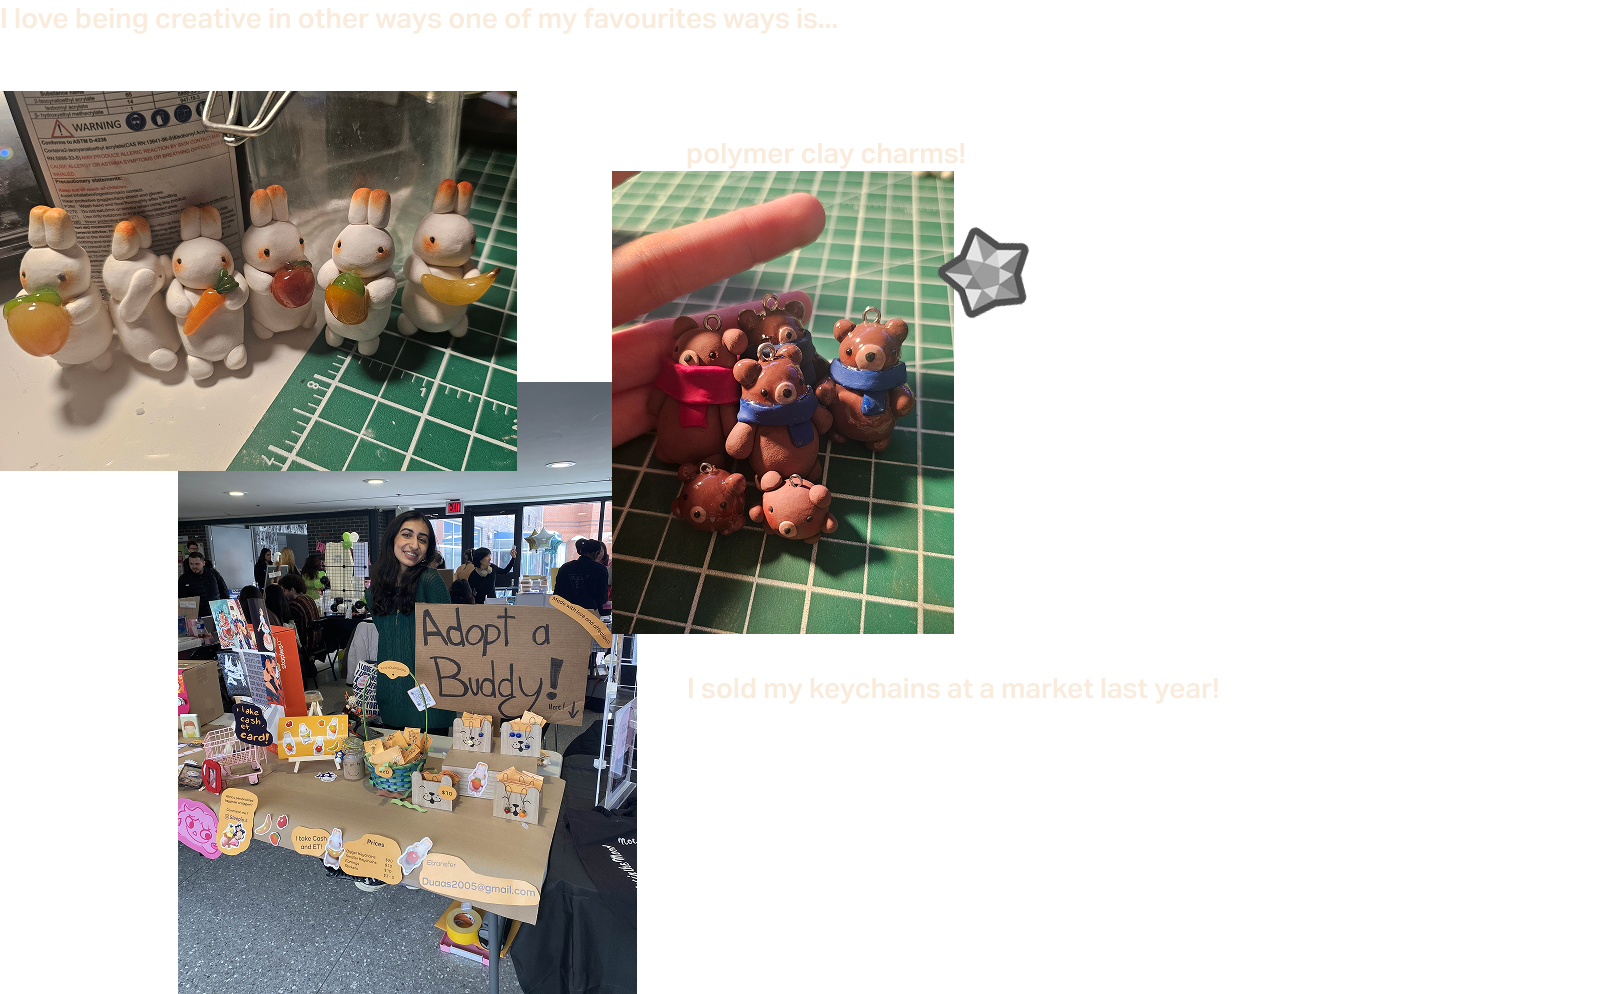
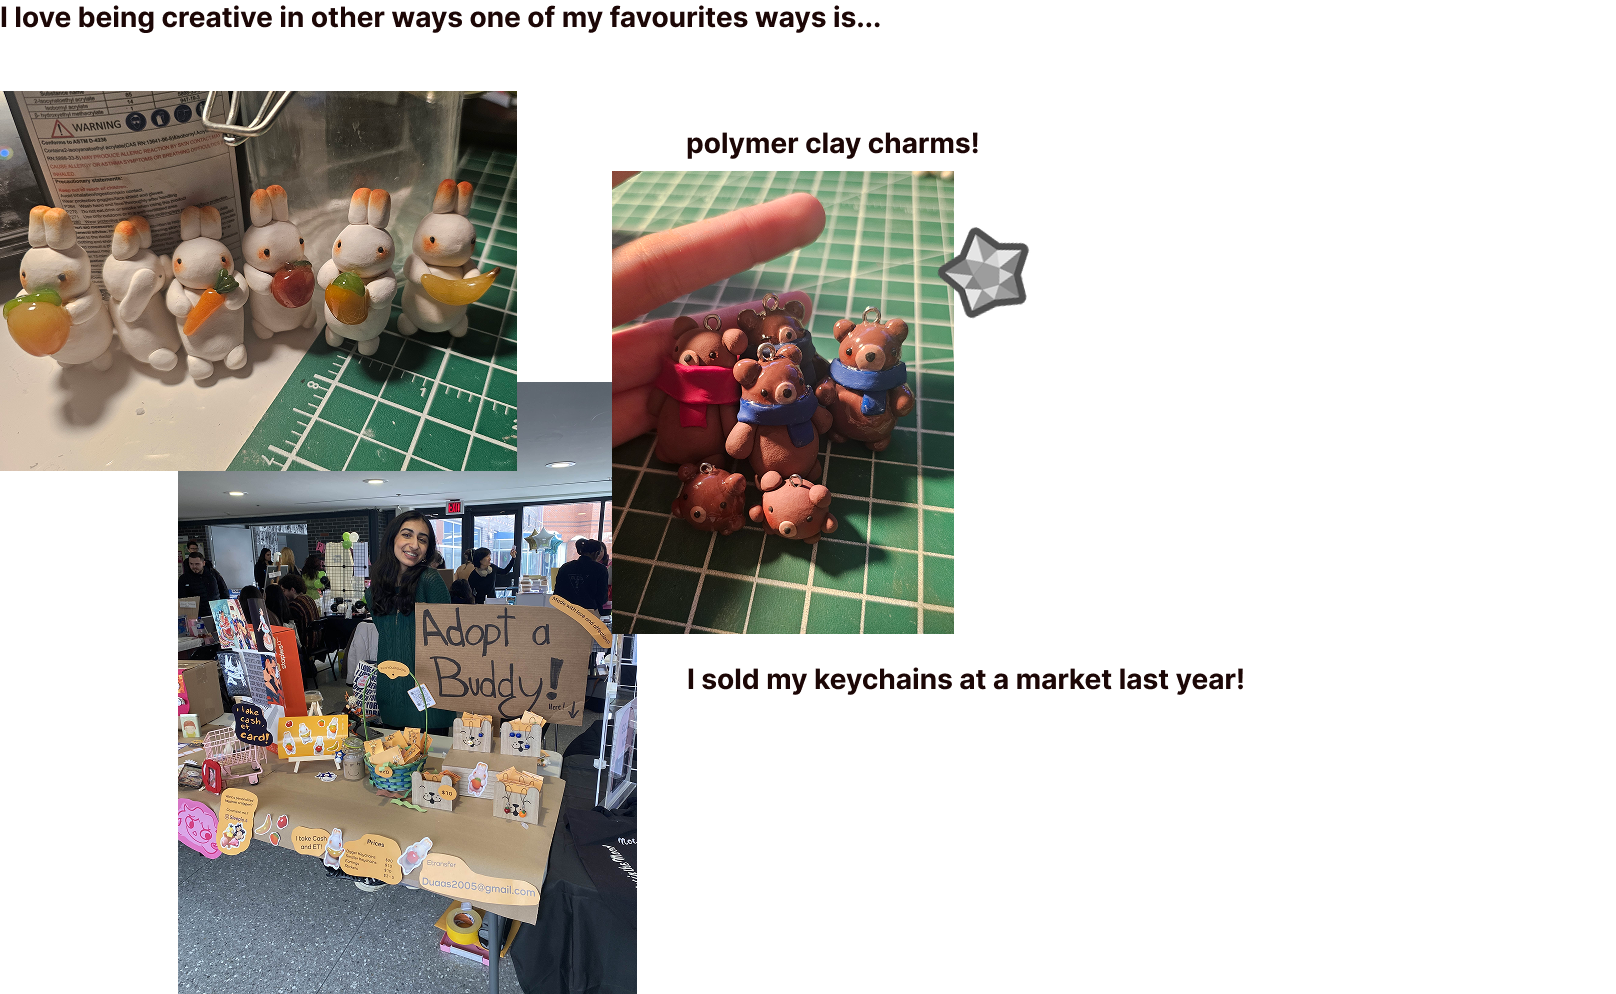
updates to the about

Changed region(s): [[0.4332, 0.6549, 0.7735, 0.7173], [0.0, 0.0, 0.526, 0.0312], [0.4022, 0.1247, 0.6188, 0.1871]]

diff --git a/about.html b/about.html
@@ -29,12 +29,6 @@
 
 <!-- Main Content -->
 <main class="about-wrapper" >
-  <header class="h1-hook">
-    <h1 class="big">  I use design, empathy, and community-powered thinking to craft products that actually make sense (and spark joy). Years of gaming taught me that every problem has a clever solution you just need the right strategy. Learning and growing, learning code,and learning new skills.</h1>
-  </header>
-  <figure class="arrow">
-    <img src="Images-About/arrow.svg" alt="arrow" >
-  </figure>
   <section class="two-col-grid" >
     <article>
       <header class="text-wrapper" >
@@ -42,23 +36,33 @@
         <p>I’m a third-year student at York University’s Design program. Growing up I have always been a creative I’ve been illustrating and drawing for over two decades. With a passion for problem solving I realized product design was for me very quickly with a side of coding  of course ;).<br><br> <b>My goal? </b>Communicate effectively and solve problems through creativity, innovation, and continuous learning especially in design and coding.</p>
       </header>
       <br><br>
-      <header class="text-wrapper">
-        <h2> Design Values </h2>
-        <h3><b> Learning is growing.</b></h3>
-        <p>As a young designer I embrace the mistakes I make as apart of my process. Each slipup is an opportunity to reflect adapt and move closer to my goals.  </p>
-      </header>
-      <header class="text-wrapper">
-        <h3><b>Efficiency is key.</b></h3>
-        <p>While working through different design projects, I’ve learned how important it is to streamline and simplify the process. How it not only creates clarity for the designer but also the user.</p>
-      </header>
-      <header class="text-wrapper">
-        <h3><b>Community is the foundation of everything. </b></h3>
-        <p>Not only is collaboration and feedback something I treasure. They’re practices I push for in design, sharing ideas helps designers grow. As the saying goes it takes a village!</p>
-      </header>
+
     </article>
       <figure>
         <img src="Images-About/HEADSHOT.png" alt="headshot" class="responsive" style="text-align: center; display: flex; align-items: center; justify-items: center; margin: 0 auto;margin-bottom:40px;">
       </figure>
+  </section>
+  <section>
+    <header class="text-wrapper">
+      <h2>Design Values</h2>
+    </header>
+
+    <article class="design-values" style="margin-bottom:8vh;">
+      <div class="text-wrapper">
+        <h3> Learning is growing.</h3>
+        <p>As a young designer I embrace the mistakes I make as apart of my process. Each slipup is an opportunity to reflect adapt and move closer to my goals.  </p>
+      </div>
+      <div class="text-wrapper">
+        <h3> Efficiency is key.</h3>
+        <p>While working through different design projects, I’ve learned how important it is to streamline and simplify the process. How it not only creates clarity for the designer but also the user.</p>
+      </div>
+      <div class="text-wrapper">
+        <h3>Community is always the foundation. </h3>
+        <p>While working through different design projects, I’ve learned how important it is to streamline and simplify the process. How it not only creates clarity for the designer but also the user.</p>
+      </div>
+
+
+    </article>
   </section>
   <section>
     <header>

diff --git a/about.css b/about.css
@@ -1,13 +1,3 @@
-.h1-hook {
-    font-size: 2rem;
-    display: flex;
-    margin-top: 40vh;
-    padding-top: 2%;
-    padding-bottom: 2%;
-}
-
-
-
 .two-col-grid {
     display: grid;
     grid-template-columns: repeat(2, 1fr);
@@ -15,13 +5,10 @@
     margin-top: 12vh;
 }
 
-.big {
-    font-family: "Aktiv Grotesk", sans-serif;
-    color: #1C0706;
-    font-size: 58px;
-    font-style: normal;
-    font-weight: 700;
-    line-height: 1.2;
+.design-values{
+    grid-template-columns: auto auto auto;
+    display:grid;
+    gap:20px;
 }
 
 .arrow{
@@ -32,12 +19,6 @@
 }
 /* Mobile: up to 767px */
 @media (max-width: 767px) {
-    .h1-hook {
-        font-size: clamp(1.5rem, 5vw, 1.75rem);
-        margin-top: 20vh;
-        padding-top: 4%;
-        padding-bottom: 4%;
-    }
 
     .about-wrapper {
         padding-left: 5%;
@@ -57,10 +38,7 @@
 
 /* Tablet: 768px - 1023px */
 @media (min-width: 768px) and (max-width: 1023px) {
-    .h1-hook {
-        font-size: 1.75rem;
-        margin-top: 35vh;
-    }
+
 
     .about-wrapper {
         padding-left: 3vw;
@@ -79,10 +57,6 @@
 
 /* Extra Small Typography: up to 375px */
 @media (max-width: 375px) {
-    .h1-hook {
-        font-size: 1.25rem;
-        margin-top: 15vh;
-    }
 
     .two-col-grid {
         gap: 16px;

diff --git a/tabbit.html b/tabbit.html
@@ -64,7 +64,7 @@
     <img src="Images-Tabbit/Tabbit Cover.gif" alt="Mockup 1">
   </figure>
 <section class="project">
-      <header class="text-wrapper">
+      <header class="text-wrapper" style="padding-top:2vh;padding-bottom: 2vh;">
         <h1> Tabbit </h1>
         <h2 class="w"> Taking the busy out of business.</h2>
     </header>

diff --git a/graft.html b/graft.html
@@ -63,7 +63,7 @@
 <!-- Project Cover -->
 <section class="project">
 
-      <header class="text-wrapper">
+      <header class="text-wrapper" style="padding-top:2vh;padding-bottom: 2vh;">
         <h1>Graft</h1>
         <h2 class="w">Connecting millennials one plant at a time.</h2>
     </header>
